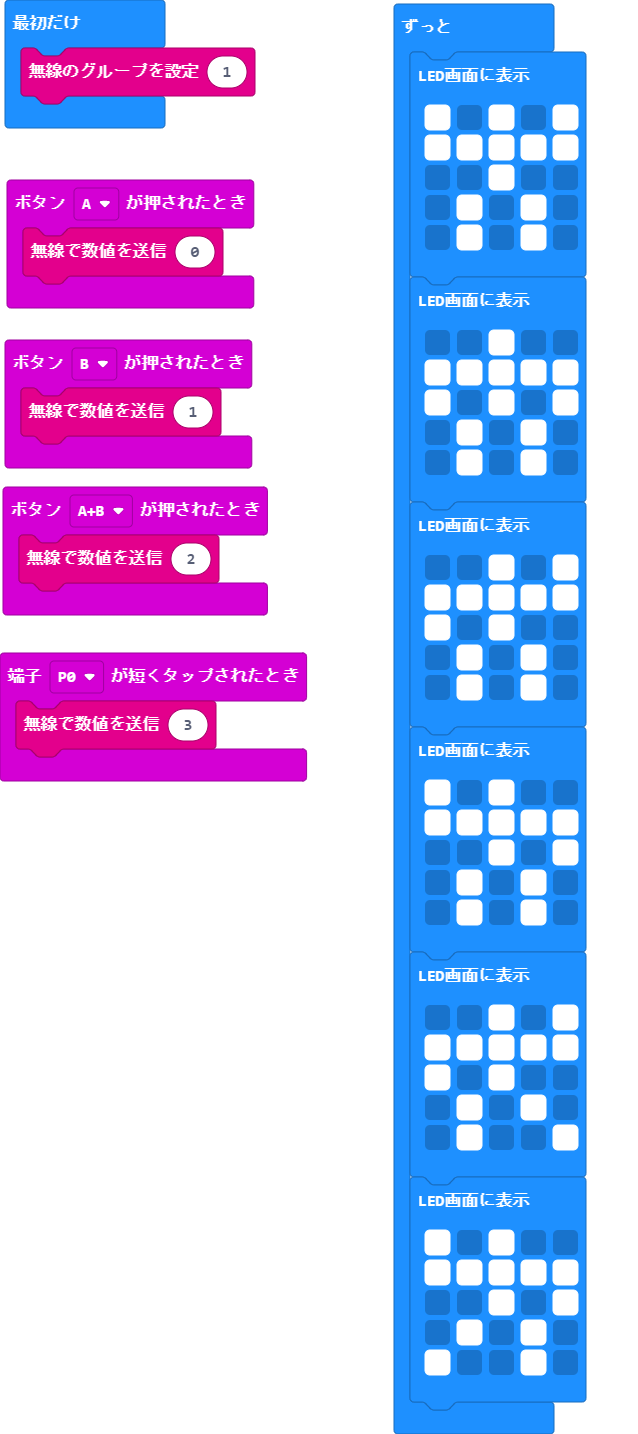
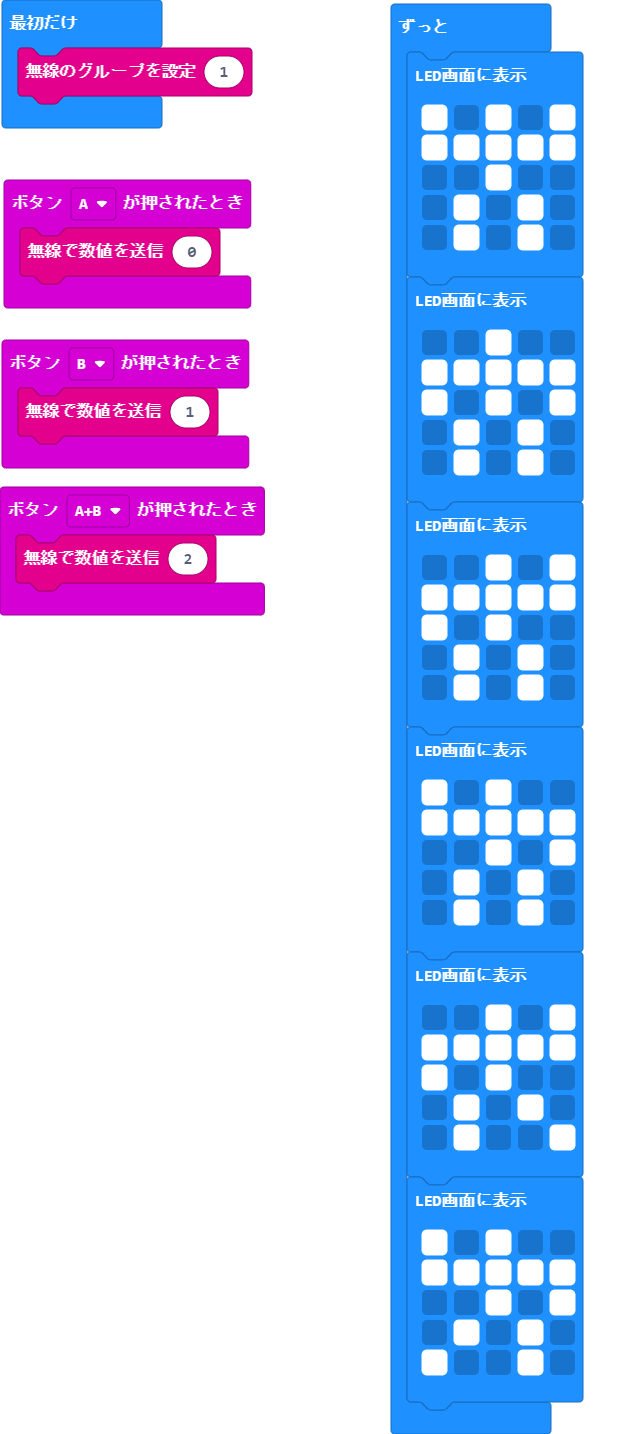
更新 main.blocks, main.ts

diff --git a/main.ts b/main.ts
@@ -1,6 +1,3 @@
-input.onPinPressed(TouchPin.P0, function () {
-    radio.sendNumber(3)
-})
 input.onButtonPressed(Button.A, function () {
     radio.sendNumber(0)
 })
